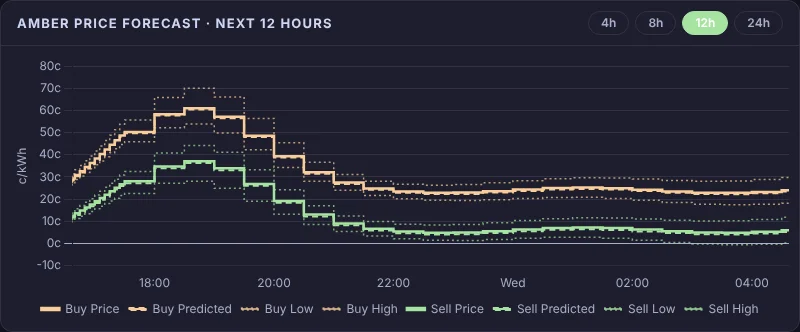
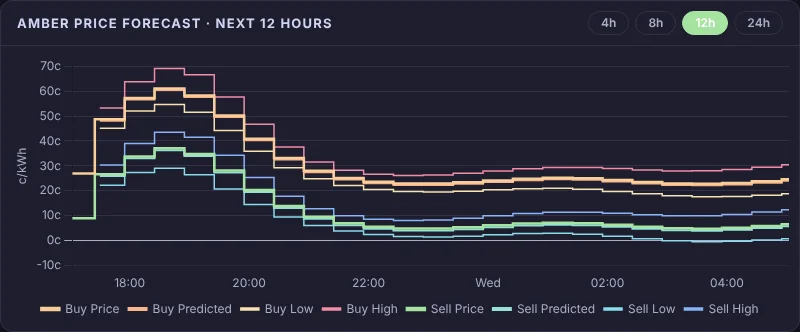
patch: Amber forecast chart joins its intervals, starts at now, solid lines (#45)
- Amber's intervals start a second past the boundary, so the line broke for 5
  minutes at each one: interval times are taken on the whole minute.
- The interval under way isn't in the forecasts: until the first one, the Price
  lines show Amber's current prices (sensor.amber_5min_current_*).
- Every line solid in its own theme colour (Buy warm, Sell cool).

Claude-Session: https://claude.ai/code/session_01MnL2HCQiY8enThNoqPuP6y

diff --git a/custom_components/battman/www/battman-amber-forecast-chart.js b/custom_components/battman/www/battman-amber-forecast-chart.js
@@ -1,25 +1,26 @@
 // Battman Amber forecast chart: custom:battman-amber-forecast-chart. Amber's buy and sell price
 // forecasts for the next 4, 8, 12 or 24 hours: the price, Amber Advanced's prediction and its low /
-// high band, for each side, in c/kWh. Tap a name under the chart to hide or show that line; the range
+// high band, for each side, in c/kWh, each line solid in its own theme colour. Until the first
+// forecast, the Price lines show Amber's current prices. Tap a name under the chart to hide or show that line; the range
 // and the hidden lines are kept per device. From Amber's two forecast sensors (amber2mqtt), named
 // directly (AMBER in battman-card-base.js); the figures are worked out in battman-amber-forecast-data.js.
 
 import { AMBER, BattmanCardBase, battmanDefine, battmanPicker, cssVar, loadChartJs, missingEntities, missingThemeVars } from "./battman-card-base.js";
 import { RANGES_H, SERIES, covering, forecastSeries } from "./battman-amber-forecast-data.js";
 
-const NEED_ENTITIES = ["buy_forecast", "feed_in_forecast"];
-const THEME_VARS = ["--battman-amber", "--battman-green"];
+const NEED_ENTITIES = ["buy_forecast", "feed_in_forecast", "buy_price", "feed_in_price"];
+// each line's theme colour: Buy in the warm colours, Sell in the cool ones
+const LINE_COLOR = {
+  buy: "--battman-amber", buy_predicted: "--battman-orange", buy_low: "--battman-yellow", buy_high: "--battman-red",
+  sell: "--battman-green", sell_predicted: "--battman-teal", sell_low: "--battman-sky", sell_high: "--battman-blue",
+};
+const THEME_VARS = Object.values(LINE_COLOR);
 const SAVE_KEY = "battman.amberForecastChart";
 const DEFAULT_RANGE_H = 8;
 const TICK_H = { 4: 0.5, 8: 1, 12: 2, 24: 3 };   // hours between time labels, per range
 
-// how each kind of line is drawn: Price solid, Predicted dashed, Low / High dotted and fainter
-const STYLE = {
-  per_kwh: { width: 2.5, dash: [], alpha: 1 },
-  predicted: { width: 2, dash: [6, 4], alpha: 1 },
-  low: { width: 1.5, dash: [2, 3], alpha: 0.7 },
-  high: { width: 1.5, dash: [2, 3], alpha: 0.7 },
-};
+// every line solid; Price a little heavier, Low / High a little lighter
+const WIDTH = { per_kwh: 2.5, predicted: 2, low: 1.5, high: 1.5 };
 const kindOf = (sd) => sd.id.endsWith("_predicted") ? "predicted" : sd.id.endsWith("_low") ? "low" : sd.id.endsWith("_high") ? "high" : "per_kwh";
 
 class BattmanAmberForecastChartCard extends BattmanCardBase {
@@ -73,22 +74,11 @@ class BattmanAmberForecastChartCard extends BattmanCardBase {
       try { localStorage.setItem(SAVE_KEY, JSON.stringify({ range: rangeH, hidden: [...hidden] })); } catch (e) {}
     }
 
-    // ---- colours: Buy amber, Sell green (as on the Cost chart); fainter for Low / High ----
-    function withAlpha(color, a) {
-      if (a >= 1) return color;
-      const ctx = document.createElement("canvas").getContext("2d");
-      ctx.fillStyle = color;
-      const s = ctx.fillStyle;   // the browser's own form: #rrggbb or rgba(...)
-      if (s[0] === "#") return `rgba(${parseInt(s.slice(1, 3), 16)},${parseInt(s.slice(3, 5), 16)},${parseInt(s.slice(5, 7), 16)},${a})`;
-      const m = s.match(/rgba?\(([^)]+)\)/);
-      if (!m) return color;
-      const p = m[1].split(",").map((x) => x.trim());
-      return `rgba(${p[0]},${p[1]},${p[2]},${a * (p[3] !== undefined ? Number(p[3]) : 1)})`;
-    }
+    // ---- colours: one theme colour per line (LINE_COLOR) ----
     function readColors() {
       const c = (v) => cssVar(card, v);
-      COL = { buy: c("--battman-amber"), sell: c("--battman-green"), grid: c("--divider-color"),
-              muted: c("--secondary-text-color"), text: c("--primary-text-color") };
+      COL = { grid: c("--divider-color"), muted: c("--secondary-text-color"), text: c("--primary-text-color") };
+      for (const id in LINE_COLOR) COL[id] = c(LINE_COLOR[id]);
       const ff = c("--primary-font-family"); if (ff && Chart) Chart.defaults.font.family = ff;
     }
 
@@ -131,12 +121,11 @@ class BattmanAmberForecastChartCard extends BattmanCardBase {
 
     function datasets(S) {
       return SERIES.map((sd) => {
-        const st = STYLE[kindOf(sd)];
-        const color = withAlpha(sd.side === "buy" ? COL.buy : COL.sell, st.alpha);
+        const color = COL[sd.id];
         return {
           label: sd.label, sid: sd.id, hidden: hidden.has(sd.id),
           data: S.times.map((t, i) => ({ x: t, y: S.data[sd.id][i] })),
-          borderColor: color, backgroundColor: color, borderWidth: st.width, borderDash: st.dash,
+          borderColor: color, backgroundColor: color, borderWidth: WIDTH[kindOf(sd)],
           pointRadius: 0, pointHoverRadius: 3, stepped: "after", spanGaps: false,
         };
       });
@@ -147,7 +136,9 @@ class BattmanAmberForecastChartCard extends BattmanCardBase {
       if (!items.length || !lastSeries) return "";
       const t = items[0].parsed.x;
       const iv = covering(lastSeries.buyIv, t, false) || covering(lastSeries.sellIv, t, false);
-      return iv ? fmtDayHM.format(iv.s) + " – " + fmtHM.format(iv.e) : fmtDayHM.format(t);
+      if (iv) return fmtDayHM.format(iv.s) + " – " + fmtHM.format(iv.e);
+      const first = Math.min(...[lastSeries.buyIv, lastSeries.sellIv].filter((x) => x.length).map((x) => x[0].s));
+      return t < first ? "Now – " + fmtHM.format(first) + " (current price)" : fmtDayHM.format(t);
     }
 
     function render() {
@@ -161,7 +152,8 @@ class BattmanAmberForecastChartCard extends BattmanCardBase {
         return showMsg("No Amber forecasts yet (Forecasts is empty on " + AMBER.buy_forecast + " or " + AMBER.feed_in_forecast + ").");
       }
       const now = Date.now(), end = now + rangeH * 3600000;
-      const S = forecastSeries(buyF, sellF, now, end);
+      const cur = (k) => card.hass.states[AMBER[k]].state;
+      const S = forecastSeries(buyF, sellF, now, end, { buy: cur("buy_price"), sell: cur("feed_in_price") });
       lastSeries = S;
       hideMsg();
       const stepMs = TICK_H[rangeH] * 3600000;

diff --git a/tests/js/amber_forecast_check.js b/tests/js/amber_forecast_check.js
@@ -9,7 +9,8 @@ const http = require("http");
 (async () => {
   const www = process.argv[2];
   const page = `<!doctype html><html><head><style>
-:root{--battman-amber:#fab387;--battman-green:#a6e3a1;--divider-color:#333;--secondary-text-color:#aaa;
+:root{--battman-amber:#fab387;--battman-green:#a6e3a1;--battman-orange:#f9a066;--battman-yellow:#f9e2af;
+--battman-red:#f38ba8;--battman-teal:#94e2d5;--battman-sky:#89dceb;--battman-blue:#89b4fa;--divider-color:#333;--secondary-text-color:#aaa;
 --primary-text-color:#eee;--card-background-color:#1e1e2e;--primary-color:#a6e3a1}
 #wrap{width:800px;height:340px}</style></head><body><div id="wrap"></div>
 <script type="module">
@@ -18,7 +19,14 @@ const f = (i, raw, dur) => ({ start_time: new Date(base + i * 1800000).toISOStri
   per_kwh: raw, advanced_price_low: raw - 0.02, advanced_price_predicted: raw + 0.01, advanced_price_high: raw + 0.03 });
 window.mk = (buy, sell, tz) => ({ config: { time_zone: tz === undefined ? "Australia/Adelaide" : tz }, themes: {}, states: Object.assign({},
   buy === null ? {} : { "sensor.amber_billing_interval_forecasts_general_price": { attributes: { Forecasts: buy } } },
-  sell === null ? {} : { "sensor.amber_billing_interval_forecasts_feed_in_price": { attributes: { Forecasts: sell } } }) });
+  sell === null ? {} : { "sensor.amber_billing_interval_forecasts_feed_in_price": { attributes: { Forecasts: sell } } },
+  { "sensor.amber_5min_current_general_price": { state: "0.31", attributes: {} },
+    "sensor.amber_5min_current_feed_in_price": { state: "0.12", attributes: {} } }) });
+// Amber's own shape: the interval under way isn't in the forecasts, and each starts a second past the boundary
+const g = (i, raw) => ({ start_time: new Date(base + i * 1800000 + 1000).toISOString(), end_time: new Date(base + (i + 1) * 1800000).toISOString(),
+  per_kwh: raw, advanced_price_low: raw - 0.02, advanced_price_predicted: raw + 0.01, advanced_price_high: raw + 0.03 });
+window.BUY2 = Array.from({ length: 60 }, (_, i) => g(i + 1, 0.25 + (i % 2) * 0.1));
+window.SELL2 = Array.from({ length: 60 }, (_, i) => g(i + 1, -0.10));
 window.BUY = Array.from({ length: 60 }, (_, i) => f(i, 0.25));
 window.SELL = Array.from({ length: 60 }, (_, i) => f(i, -0.10));
 await import("/battmanfiles/battman-amber-forecast-chart.js");
@@ -89,6 +97,18 @@ window.el = el;
   await p.evaluate(() => { el.hass = mk(BUY, SELL); });
   await p.waitForTimeout(100);
   out.back = (await chartInfo()).msg;
+  // Amber's own shape: current price until the first forecast, then no gaps; every line solid, its own colour
+  await p.evaluate(() => { el.hass = mk(BUY2, SELL2); });
+  await p.waitForTimeout(100);
+  out.amberShape = await p.evaluate(() => {
+    const c = Chart.getChart(el.shadowRoot.getElementById("c"));
+    const ds = c.data.datasets;
+    const firstFc = Date.parse(BUY2[0].start_time) - 1000;
+    const gaps = (d) => d.data.filter((pt) => pt.x >= firstFc && pt.y === null).length;
+    return { firstBuy: ds[0].data[0].y, firstSell: ds[4].data[0].y, firstPredicted: ds[1].data[0].y,
+      gaps: ds.map(gaps), dashed: ds.filter((d) => d.borderDash && d.borderDash.length).length,
+      colours: new Set(ds.map((d) => d.borderColor)).size };
+  });
   out.picker = await p.evaluate(() => window.customCards.filter((c) => c.type === "battman-amber-forecast-chart").map((c) => ({ name: c.name, preview: c.preview })));
   out.errors = errors;
   console.log(JSON.stringify(out));

diff --git a/custom_components/battman/www/battman-amber-forecast-data.js b/custom_components/battman/www/battman-amber-forecast-data.js
@@ -38,16 +38,20 @@ export function amberValue(f, field) {
   return num(f["advanced_price_" + field]);
 }
 
+// Amber's intervals start a second past the boundary (17:30:01 to 18:00:00): on the whole minute, so
+// one interval ends where the next starts and the line has no gap between them.
+const toMinute = (ms) => isNaN(ms) ? ms : Math.floor(ms / 60000) * 60000;
+
 // Forecasts list -> [{ s, e, f }] (ms), in time order. An entry with no usable start is skipped; one with
 // no end_time or duration ends where the next one starts (the last such entry is dropped).
 export function intervals(forecasts) {
   const list = (Array.isArray(forecasts) ? forecasts : [])
-    .map((f) => ({ f, s: Date.parse(f && f.start_time) }))
+    .map((f) => ({ f, s: toMinute(Date.parse(f && f.start_time)) }))
     .filter((x) => !isNaN(x.s))
     .sort((a, b) => a.s - b.s);
   const out = [];
   list.forEach((x, i) => {
-    let e = Date.parse(x.f.end_time);
+    let e = toMinute(Date.parse(x.f.end_time));
     if (isNaN(e) && num(x.f.duration) !== null) e = x.s + num(x.f.duration) * 60000;
     if (isNaN(e) && list[i + 1]) e = list[i + 1].s;
     if (!isNaN(e) && e > x.s) out.push({ s: x.s, e, f: x.f });
@@ -64,7 +68,10 @@ export function covering(iv, t, last) {
 
 // The chart's points over [fromMs, toMs]: every interval edge plus a 5-minute grid, and each series'
 // value (c/kWh) at each, as the interval covering it says. -> { times, data: { id: [..] }, buyIv, sellIv }
-export function forecastSeries(buyForecasts, sellForecasts, fromMs, toMs) {
+// current: { buy, sell } ($/kWh, Sell already positive = earning, as Amber's current-price sensors give
+// them): the Price lines from now until each side's first forecast (the interval under way isn't in
+// the forecasts). Predicted / Low / High have nothing there.
+export function forecastSeries(buyForecasts, sellForecasts, fromMs, toMs, current) {
   const buyIv = intervals(buyForecasts), sellIv = intervals(sellForecasts);
   const set = new Set([fromMs, toMs]);
   for (let t = Math.ceil(fromMs / STEP_MS) * STEP_MS; t < toMs; t += STEP_MS) set.add(t);
@@ -78,7 +85,10 @@ export function forecastSeries(buyForecasts, sellForecasts, fromMs, toMs) {
   const data = {};
   for (const sd of SERIES) {
     const iv = sd.side === "buy" ? buyIv : sellIv;
+    const firstStart = iv.length ? iv[0].s : Infinity;
+    const now = current && sd.field === "per_kwh" ? num(current[sd.side]) : null;
     data[sd.id] = times.map((t, i) => {
+      if (t < firstStart) return now === null ? null : Math.round(now * 100 * 10000) / 10000;
       if (t > lastEnd) return null;
       const x = covering(iv, t, i === times.length - 1 || t === lastEnd);
       const v = x ? amberValue(x.f, sd.field) : null;

diff --git a/tests/test_v0271.py b/tests/test_v0271.py
@@ -1,0 +1,71 @@
+"""v0.27.1: Amber forecast chart fixes.
+
+- No gaps between intervals: Amber's intervals start a second past the boundary (17:30:01 to 18:00:00),
+  so a point on the boundary fell between two intervals and the line broke for 5 minutes there. Each
+  interval's times are taken on the whole minute.
+- The chart starts at "now": the interval under way isn't in Amber's forecasts, so until the first one
+  the Price lines show Amber's current prices (sensor.amber_5min_current_*, Sell already positive).
+- Every line solid, in its own theme colour (Buy warm, Sell cool).
+"""
+
+import json
+import os
+import shutil
+import subprocess
+from pathlib import Path
+
+import pytest
+
+WWW = Path(__file__).parents[1] / "custom_components/battman/www"
+DATA = WWW / "battman-amber-forecast-data.js"
+CHROME = os.environ.get("BATTMAN_CHROME", "/opt/pw-browsers/chromium-1194/chrome-linux/chrome")
+NODE_PATH = os.environ.get("BATTMAN_NODE_PATH", "/tmp/pwtest/node_modules")
+
+
+def test_amber_intervals_join_and_current_price_leads() -> None:
+    code = f"""
+import {{ forecastSeries, intervals }} from "{DATA.as_uri()}";
+const T0 = Date.parse("2026-10-27T06:30:00Z");
+const at = (m, s = 0) => new Date(T0 + m * 60000 + s * 1000).toISOString();
+const fc = (m, raw) => ({{ start_time: at(m, 1), end_time: at(m + 30), per_kwh: raw, advanced_price_predicted: raw }});
+const buy = [fc(30, 0.4), fc(60, 0.5)], sell = [fc(30, -0.1), fc(60, -0.2)];
+const S = forecastSeries(buy, sell, T0 + 2 * 60000, T0 + 90 * 60000, {{ buy: "0.3", sell: "0.08" }});
+const pick = (id, m) => S.data[id][S.times.indexOf(T0 + m * 60000)];
+console.log(JSON.stringify({{
+  starts: intervals(buy).map((x) => (x.s - T0) / 60000),
+  buyNow: pick("buy", 2), sellNow: pick("sell", 25), predictedNow: pick("buy_predicted", 25),
+  buyAt30: pick("buy", 30), buyAt60: pick("buy", 60), sellAt60: pick("sell", 60), buyAt90: pick("buy", 90),
+  gaps: S.times.filter((t) => t >= T0 + 30 * 60000).filter((t, i) => S.data.buy[S.times.indexOf(t)] === null).length,
+  noCurrent: forecastSeries(buy, sell, T0 + 2 * 60000, T0 + 90 * 60000).data.buy[0],
+}}));
+"""
+    out = json.loads(subprocess.run(["node", "--input-type=module", "-e", code], capture_output=True, text=True, check=True).stdout)
+    assert out["starts"] == [30, 60]                                  # 07:00:01 -> 07:00
+    assert out["buyNow"] == 30 and out["sellNow"] == 8                # current prices until the first forecast
+    assert out["predictedNow"] is None                                # only the Price lines have a "now"
+    assert out["buyAt30"] == 40 and out["buyAt60"] == 50 and out["sellAt60"] == 20
+    assert out["buyAt90"] == 50                                       # the last forecast's end closes the line
+    assert out["gaps"] == 0
+    assert out["noCurrent"] is None                                   # no current price given: a gap, not 0
+
+
+def test_card_reads_the_current_price_sensors_and_draws_solid_lines() -> None:
+    js = (WWW / "battman-amber-forecast-chart.js").read_text()
+    assert '"buy_price", "feed_in_price"' in js and "borderDash" not in js
+    for v in ("amber", "orange", "yellow", "red", "green", "teal", "sky", "blue"):
+        assert f'"--battman-{v}"' in js, v
+
+
+@pytest.mark.skipif(not (Path(CHROME).exists() and Path(NODE_PATH, "playwright").exists() and shutil.which("node")),
+                    reason="needs Playwright and Chromium")
+def test_amber_shape_in_a_browser() -> None:
+    r = subprocess.run(["node", str(Path(__file__).parent / "js/amber_forecast_check.js"), str(WWW)],
+                       capture_output=True, text=True, timeout=120,
+                       env={**os.environ, "NODE_PATH": NODE_PATH, "CHROME": CHROME})
+    assert r.returncode == 0, r.stderr
+    out = json.loads(r.stdout.strip().splitlines()[-1])
+    assert out["errors"] == []
+    shape = out["amberShape"]
+    assert (shape["firstBuy"], shape["firstSell"], shape["firstPredicted"]) == (31, 12, None)
+    assert shape["gaps"] == [0] * 8
+    assert shape["dashed"] == 0 and shape["colours"] == 8

diff --git a/docs/cards.md b/docs/cards.md
@@ -199,12 +199,14 @@ no options.
 ## Battman Amber forecast chart
 
 `custom:battman-amber-forecast-chart` is Amber's price forecasts as a chart, in c/kWh, from now to 4,
-8, 12 or 24 hours ahead. Each side, Buy (amber) and Sell (green), has four lines: the forecast price
-(solid), Amber Advanced's prediction (dashed) and its low and high (dotted). Sell is shown as what
-you're paid (positive = earning), as the engine works it out, so Sell High is always the upper line.
+8, 12 or 24 hours ahead. Each side has four lines, each solid in its own theme colour (Buy in the
+warm colours, Sell in the cool ones): the forecast price, Amber Advanced's prediction and its low and
+high. Until the first forecast (the interval under way isn't in Amber's forecasts) the price lines
+show Amber's current prices. Sell is shown as what you're paid (positive = earning), as the engine
+works it out, so Sell High is always the upper line.
 Tap a name under the chart to hide or show that line; the range and the hidden lines are kept per
 device. Hover or tap the chart for every shown line's price in that interval. It reads Amber's two
-forecast sensors (amber2mqtt) and says so on the card if one is missing or has no forecasts. It
+forecast sensors and two current-price sensors (amber2mqtt) and says so on the card if one is missing or has no forecasts. It
 refreshes every minute and whenever Amber updates. It has no options.
 
 ## Battman Settings
